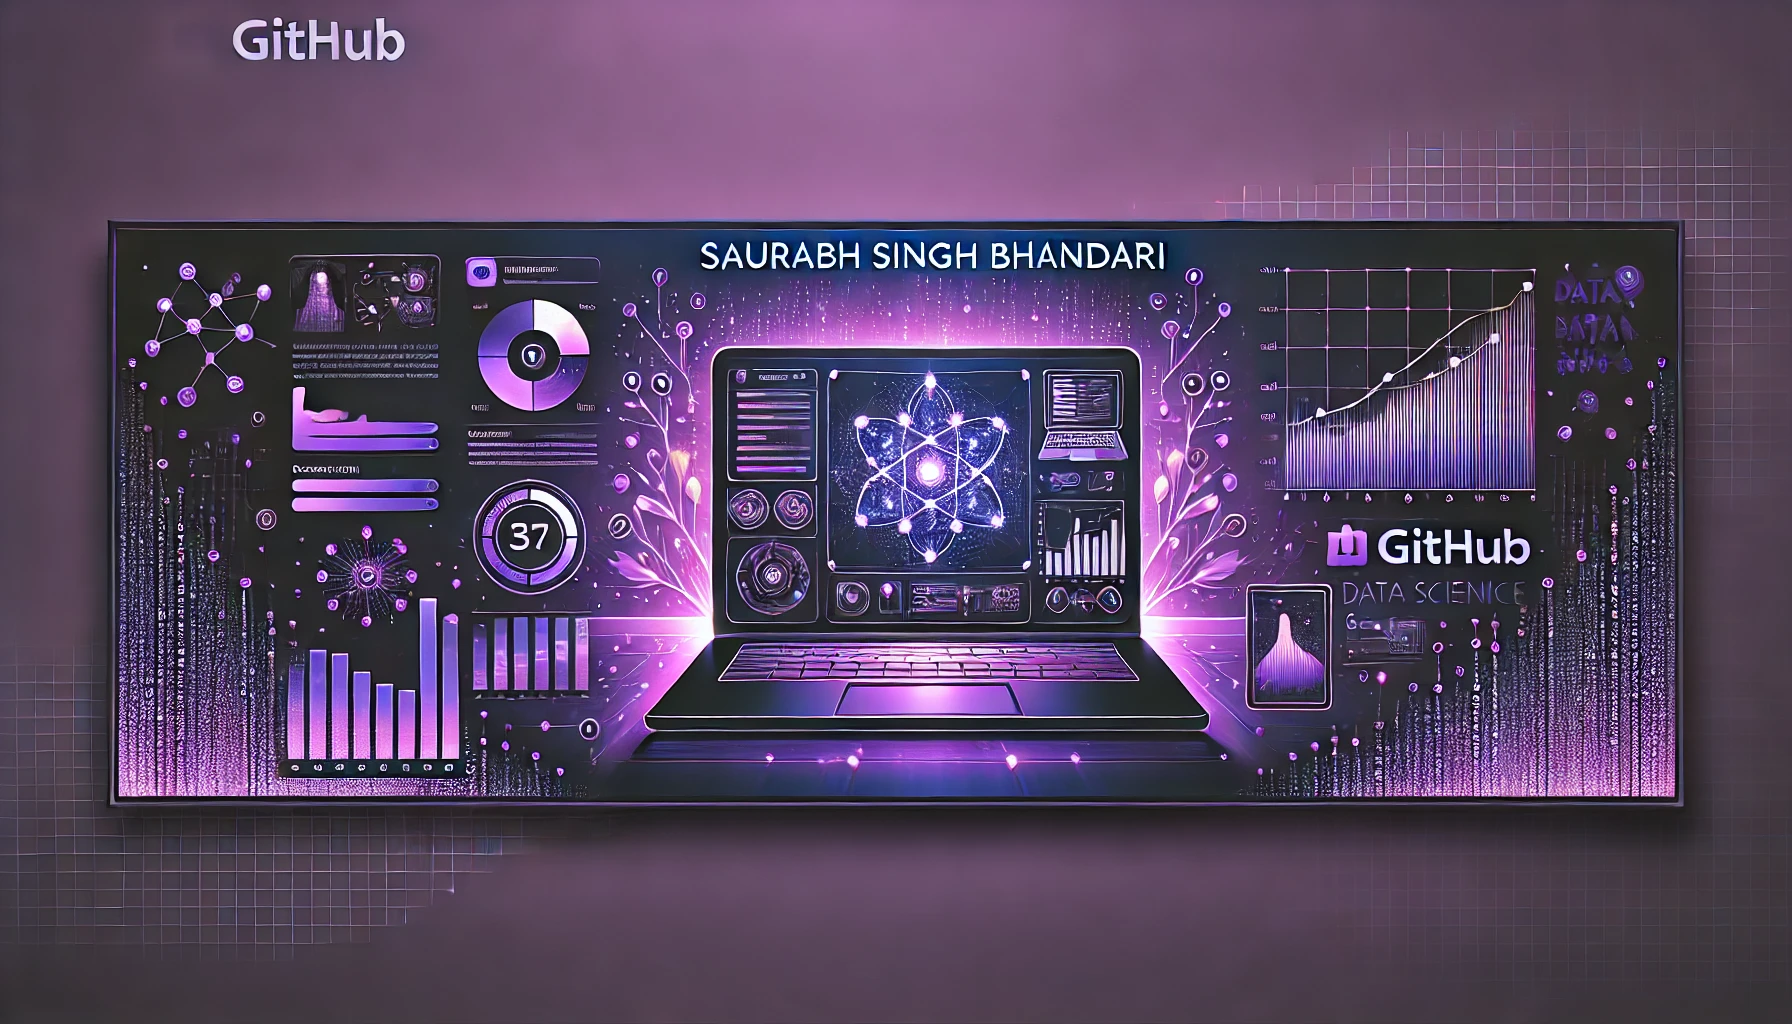
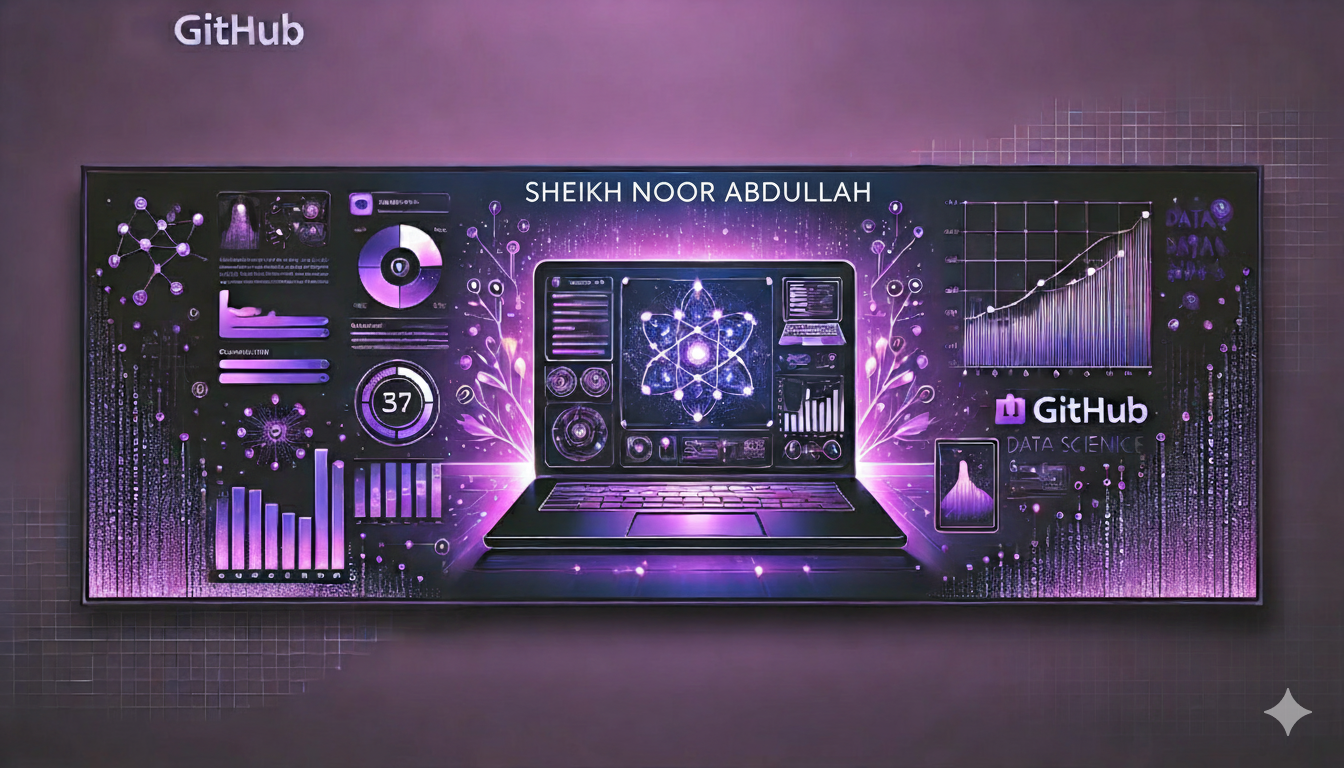
Initial commit

diff --git a/README.md b/README.md
@@ -59,7 +59,7 @@
 <p align="left"> <a href="https://www.w3schools.com/cpp/" target="_blank" rel="noreferrer"> <img src="https://raw.githubusercontent.com/devicons/devicon/master/icons/cplusplus/cplusplus-original.svg" alt="cplusplus" width="40" height="40"/> </a> <a href="https://www.python.org" target="_blank" rel="noreferrer"> <img src="https://raw.githubusercontent.com/devicons/devicon/master/icons/python/python-original.svg" alt="python" width="40" height="40"/> </a> <a href="https://www.w3schools.com/R/" target="_blank" rel="noreferrer"> <img src="https://upload.wikimedia.org/wikipedia/commons/1/1b/R_logo.svg" alt=""R: A language and environment for statistical computing and graphics." width="40" height="40"/>
 <a href="https://pandas.pydata.org/" target="_blank" rel="noreferrer"> <img src="https://raw.githubusercontent.com/devicons/devicon/2ae2a900d2f041da66e950e4d48052658d850630/icons/pandas/pandas-original.svg" alt="pandas" width="40" height="40"/> </a> <a href="https://seaborn.pydata.org/" target="_blank" rel="noreferrer"> <img src="https://seaborn.pydata.org/_images/logo-mark-lightbg.svg" alt="seaborn" width="40" height="40"/> </a> </p>
 
-[![logo](https://github.com/SaurabhSSB/SaurabhSSB/blob/main/Final.webp)](https://linktr.ee/Saurabh_Singh_Bhandari_SSB)
+[![logo](https://github.com/NoorAbdullah02/NoorAbdullah02/blob/main/Final.webp)](https://noor-abdullah.vercel.app/)
 
 <!--
 <p>
@@ -81,26 +81,26 @@
 </div>
 -->
 
-| <a href="https://linktr.ee/Saurabh_Singh_Bhandari_SSB"><img src="https://github.com/SaurabhSSB/SaurabhSSB/blob/main/Professional.webp" alt="SaurabhSSB" height="350px" /></a> | <img src="https://github-readme-stats.vercel.app/api/top-langs/?username=SaurabhSSB&layout=donut-vertical&theme=radical&v=1" height="350px"/> |
+| <a href="https://linktr.ee/Saurabh_Singh_Bhandari_SSB"><img src="https://github.com/NoorAbdullah02/NoorAbdullah02/blob/main/Professional.webp" alt="NoorAbdullah02" height="350px" /></a> | <img src="https://github-readme-stats.vercel.app/api/top-langs/?username=NoorAbdullah02&layout=donut-vertical&theme=radical&v=1" height="350px"/> |
 |-------------------------------------------------------|-----------------------------------|
 
 
-| [![SaurabhSSB's GitHub Streak](https://streak-stats.demolab.com/?user=SaurabhSSB&theme=radical&exclude_days=Sat&theme=radical&v=1)](https://linktr.ee/Saurabh_Singh_Bhandari_SSB) | ![SaurabhSSB's GitHub stats](https://github-readme-stats.vercel.app/api?username=SaurabhSSB&show_icons=true&theme=radical&rank_icon=github&v=1) |
+| [![NoorAbdullah02's GitHub Streak](https://streak-stats.demolab.com/?user=NoorAbdullah02&theme=radical&exclude_days=Sat&theme=radical&v=1)](https://linktr.ee/Saurabh_Singh_Bhandari_SSB) | ![NoorAbdullah02's GitHub stats](https://github-readme-stats.vercel.app/api?username=NoorAbdullah02&show_icons=true&theme=radical&rank_icon=github&v=1) |
 |-------------------------------------------------------|-----------------------------------|
 
 <!--https://streak-stats.demolab.com?user=SaurabhSSB&theme=radical&v=0-->
 
-[![logo](https://github.com/SaurabhSSB/SaurabhSSB/blob/main/Banner.webp)](https://linktr.ee/Saurabh_Singh_Bhandari_SSB)
+[![logo](https://github.com/NoorAbdullah02/NoorAbdullah02/blob/main/Banner.webp)](https://linktr.ee/Saurabh_Singh_Bhandari_SSB)
 
 ## **Trail of Contributions**
 
 <div align="center">
-  <img src="https://raw.githubusercontent.com/SaurabhSSB/SaurabhSSB/refs/heads/output/github-contribution-grid-snake-dark.svg#gh-dark-mode-only" alt="snake gif"/>
-  <img src="https://github.com/SaurabhSSB/SaurabhSSB/blob/output/github-contribution-grid-snake.svg#gh-light-mode-only" alt="snake gif"/>
+  <img src="https://raw.githubusercontent.com/NoorAbdullah02/NoorAbdullah02/refs/heads/output/github-contribution-grid-snake-dark.svg#gh-dark-mode-only" alt="snake gif"/>
+  <img src="https://github.com/NoorAbdullah02/NoorAbdullah02/blob/output/github-contribution-grid-snake.svg#gh-light-mode-only" alt="snake gif"/>
 </div>
 
 <p align="center">
-  <a href="https://linktr.ee/Saurabh_Singh_Bhandari_SSB">
+  <a href="https://noor-abdullah.vercel.app/">
     <img src="https://capsule-render.vercel.app/api?type=waving&color=gradient&height=100&section=footer"/>
   </a>
 </p>
